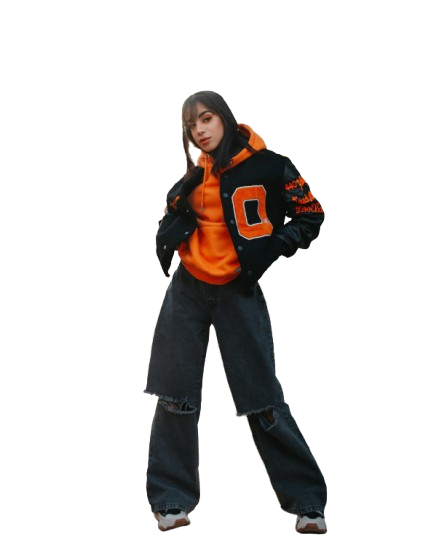
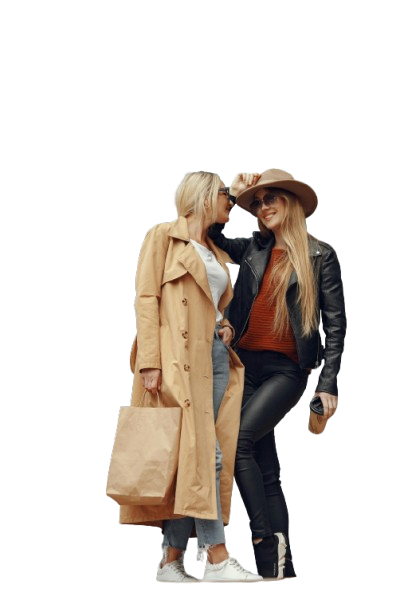
Update hero image

Changed region(s): [[0.2353, 0.1523, 0.8529, 0.9749]]

diff --git a/munnadi/src/Components/Hero/Hero.css b/munnadi/src/Components/Hero/Hero.css
@@ -40,10 +40,10 @@
     flex: 1;
 }
 .hero-right img{
-    width: 470px;
+    width: 480px;
     position: relative;
-    top: 20px;
     left: -10px;
+    margin-top: -50px;
 }
 @media(max-width:1280px){
     .hero-left{
@@ -63,7 +63,7 @@
         font-size: 16px;
     }
     .hero-right img{
-        width: 500px;
+        width: 450px;
     }
 }
 @media(max-width:1024px){
@@ -82,7 +82,9 @@
         font-size: 14px;
     }
     .hero-right img{
-        width: 450px;
+        width: 400px;
+        left: -20px;
+        margin-top: -20px;
     }
 }
 @media(max-width:800px){
@@ -101,7 +103,7 @@
         font-size: 12px;
     }
     .hero-right img{
-        width: 400px;
+        width: 390px;
     }
 }
 @media(max-width:500px){
